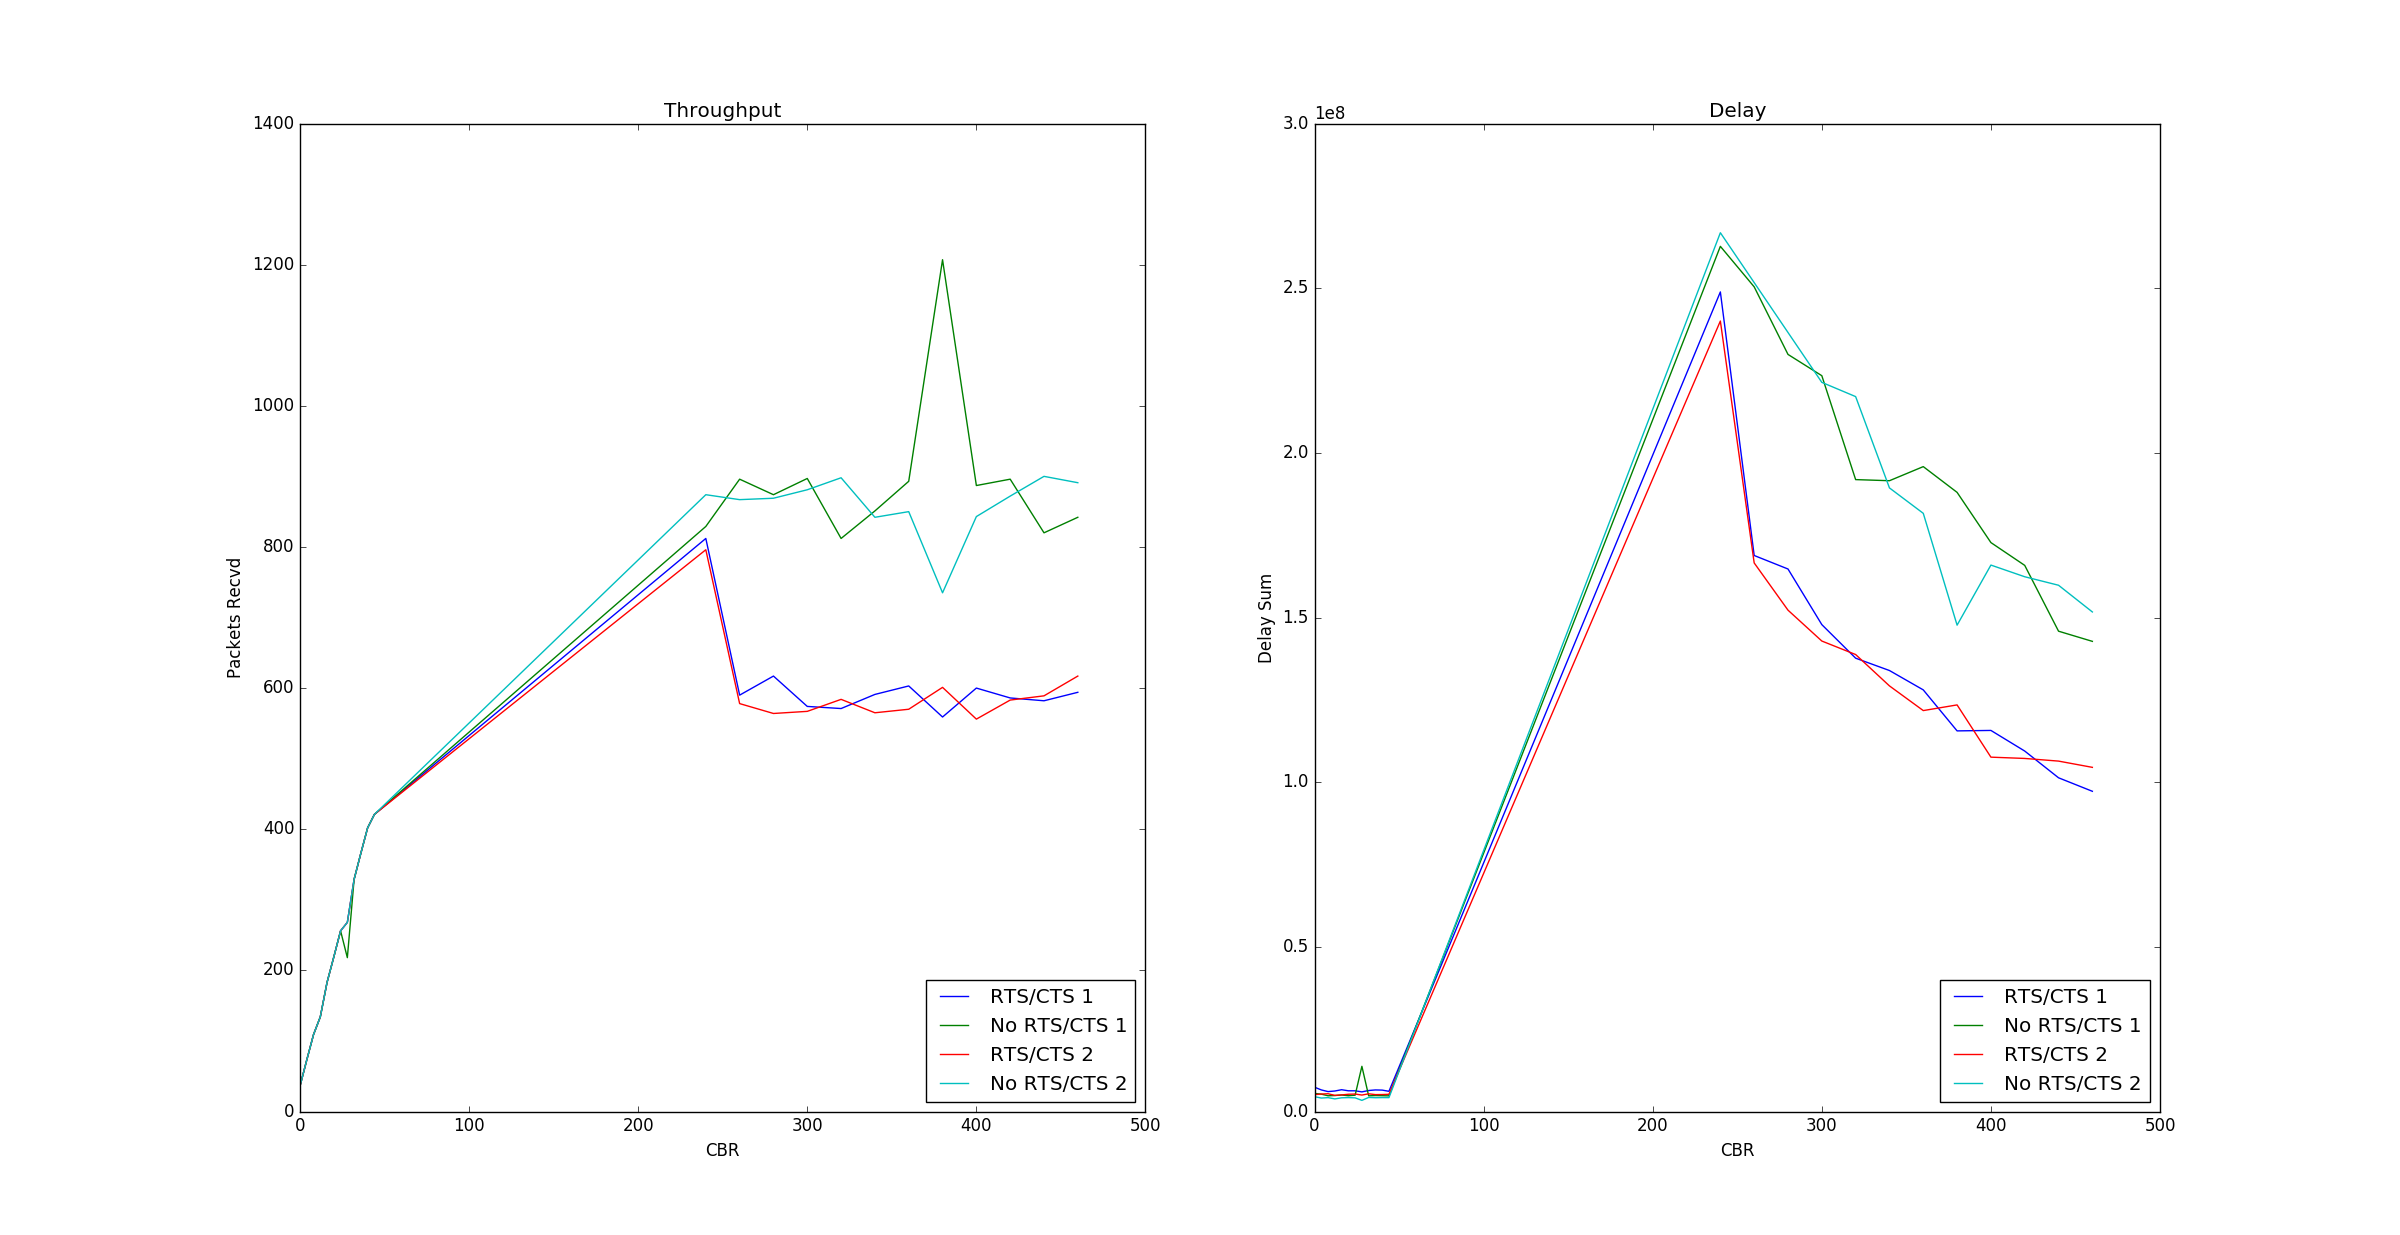
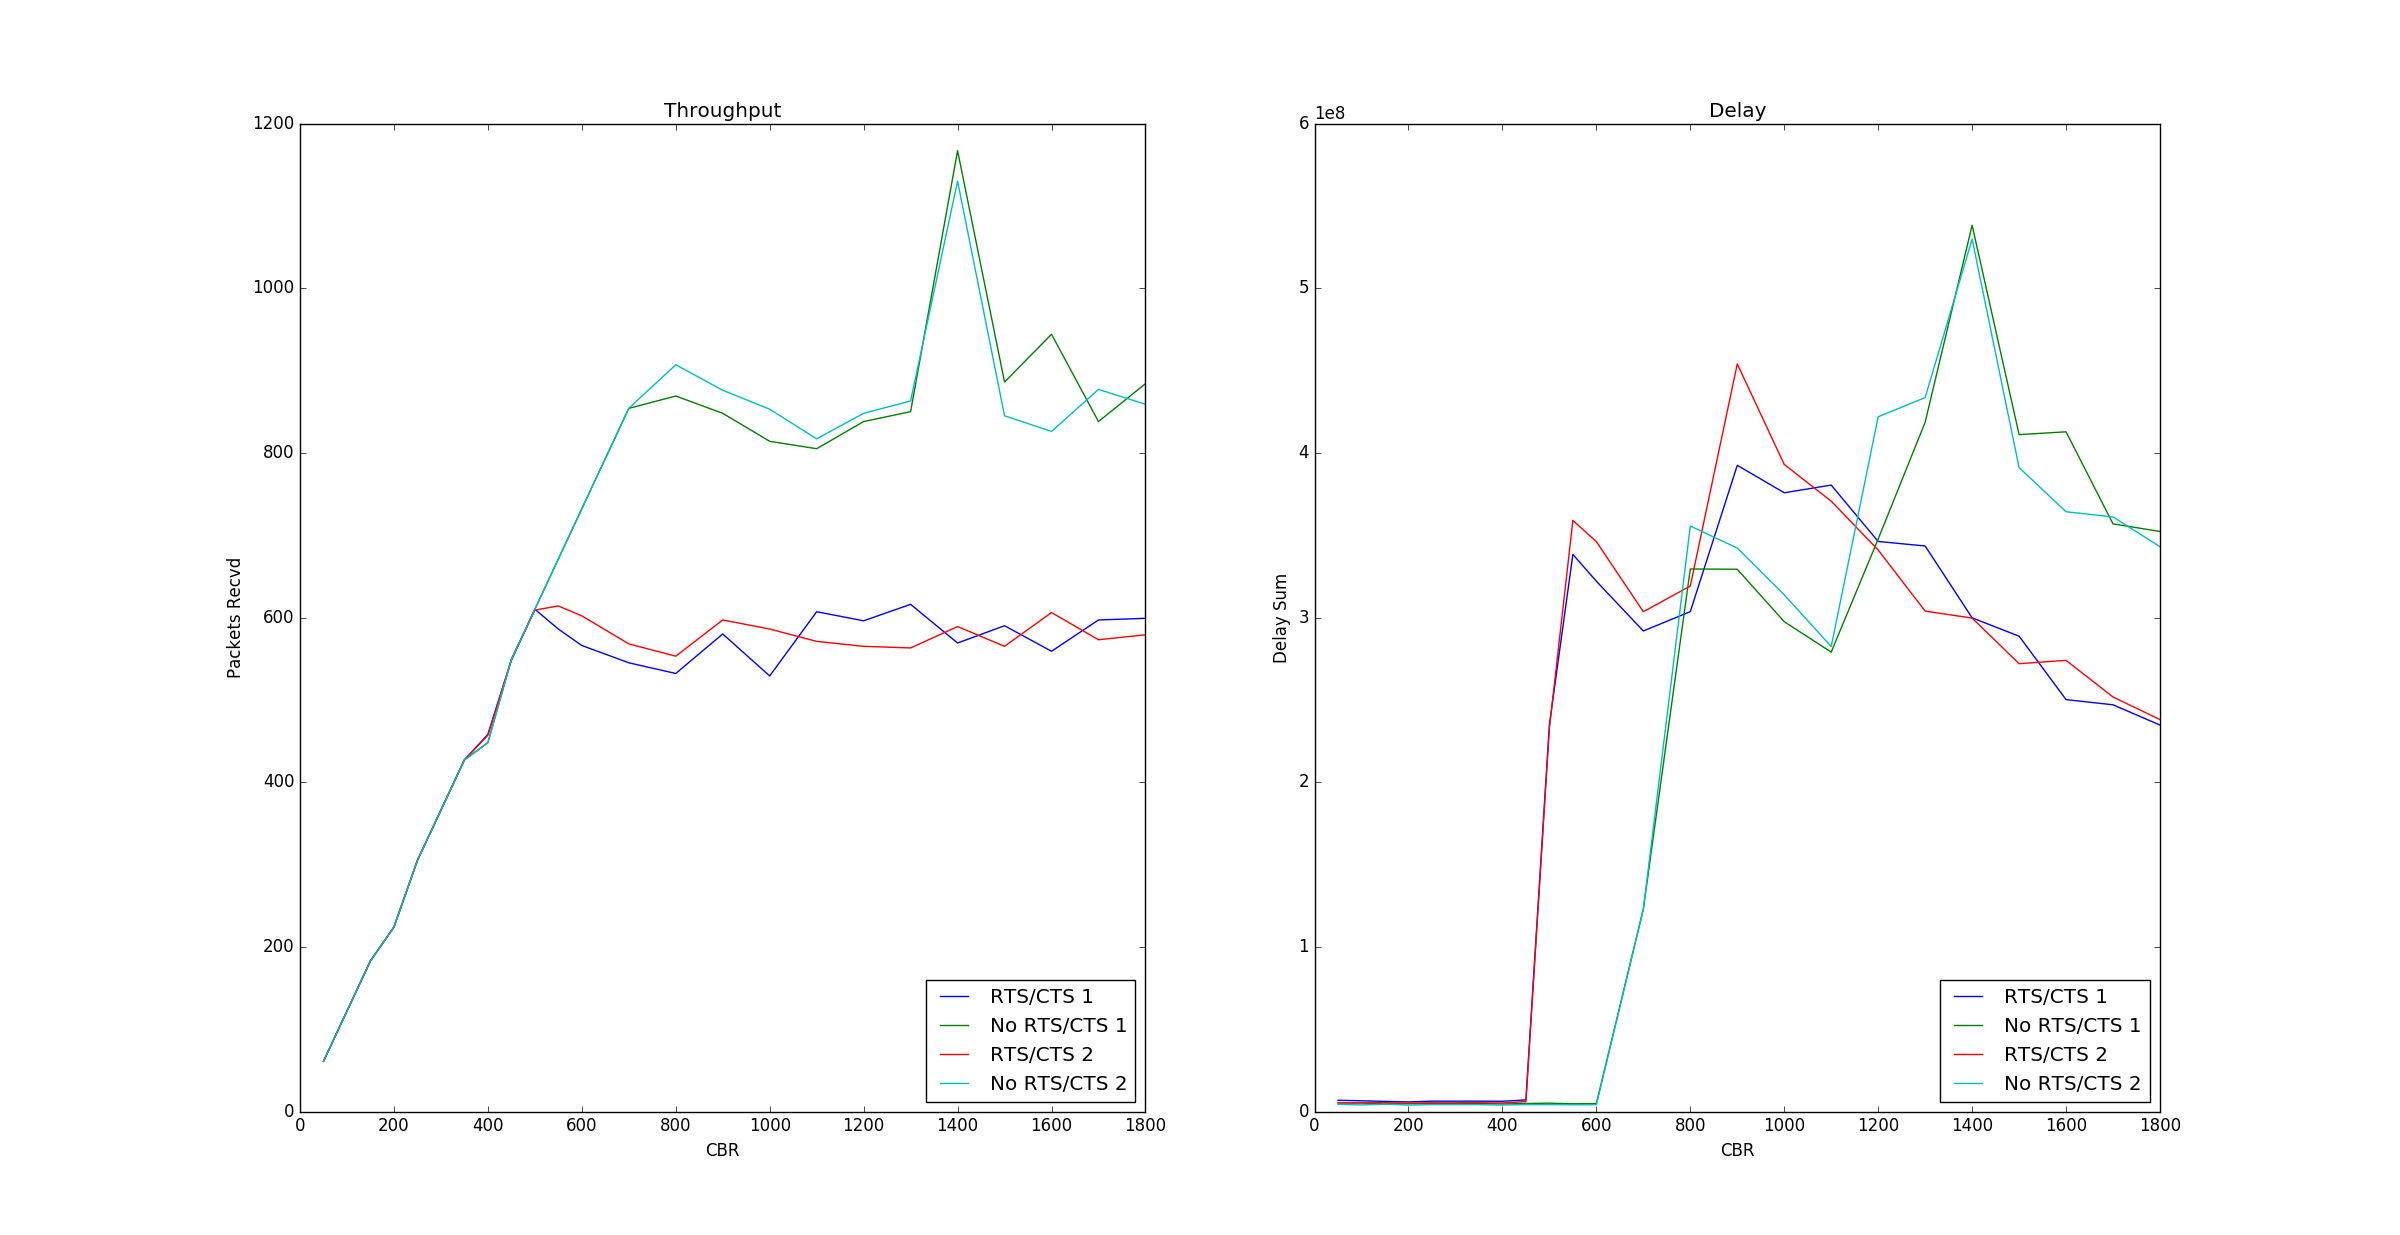
two....

diff --git a/two.cc b/two.cc
@@ -144,17 +144,25 @@ int main(int argc, char** argv) {
 #define MM 2 // freq
 #define L 25 // num loops
 
+  int acc = 0;
   for ( int ii = 1; ii < L; ii++ ) {
-    if ( ii > L/2)
-      run_experiment_2(true, ii*M*MM, S, "rtscts/" + std::to_string(ii));
-    else
-      run_experiment_2(true, ii*M, S, "rtscts/" + std::to_string(ii));
+    if ( ii > L/2) {
+      acc += M*MM;
+      run_experiment_2(true, acc, S, "rtscts/" + std::to_string(ii));
+    } else {
+      acc += M;
+      run_experiment_2(true, acc, S, "rtscts/" + std::to_string(ii));
+    }
   }
+  acc = 0;
   for ( int ii = 1; ii < L; ii++ ) {
-    if ( ii > L/2)
-      run_experiment_2(false, ii*M*MM, S, "no_rtscts/" + std::to_string(ii));
-    else
-      run_experiment_2(false, ii*M, S, "no_rtscts/" + std::to_string(ii));
+    if ( ii > L/2) {
+      acc += M*MM;
+      run_experiment_2(false, acc, S, "no_rtscts/" + std::to_string(ii));
+    } else { 
+      acc += M;
+      run_experiment_2(false, acc, S, "no_rtscts/" + std::to_string(ii));
+    }
   }
 
 }
